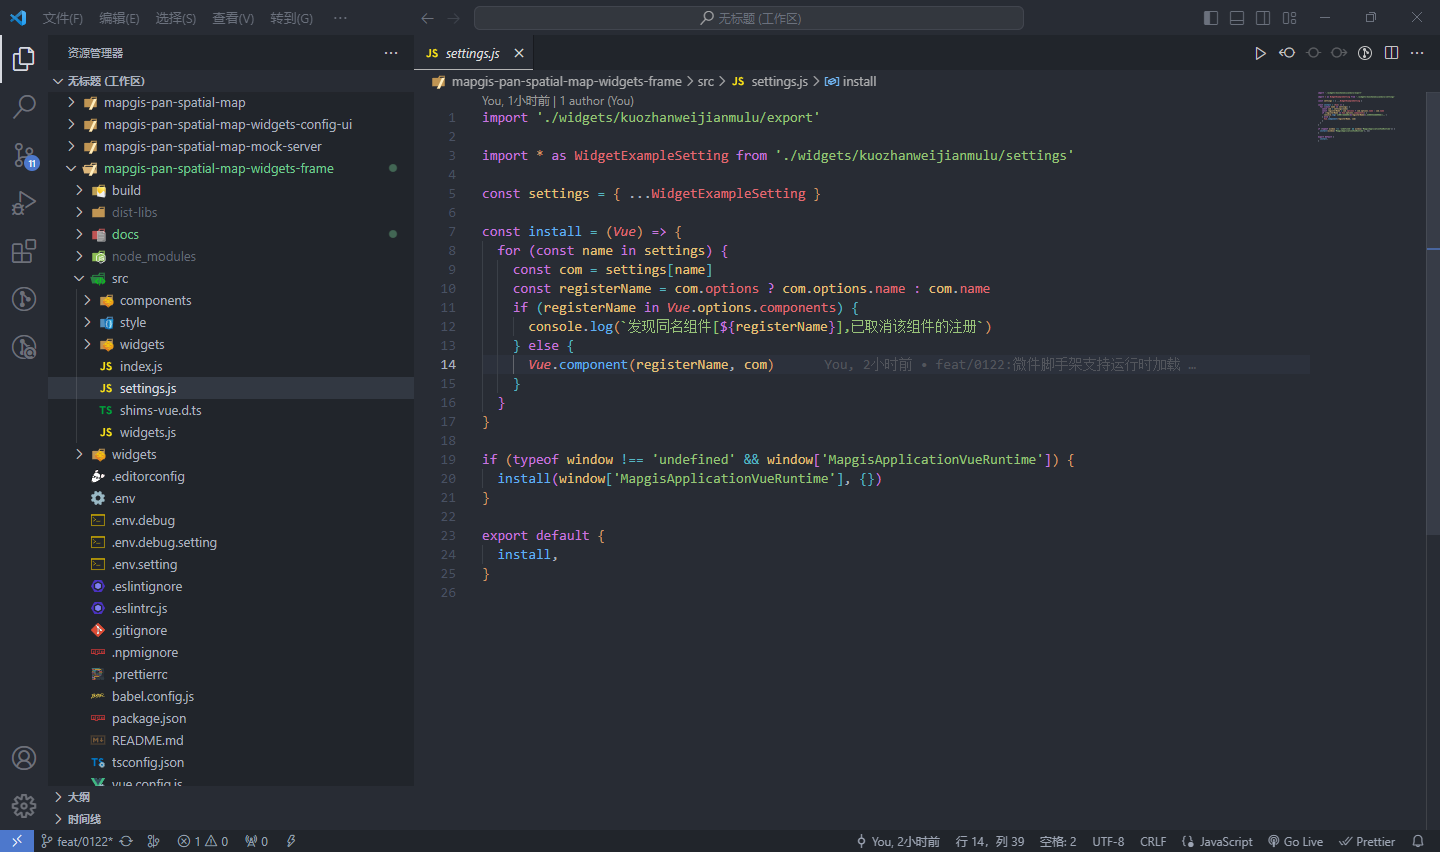
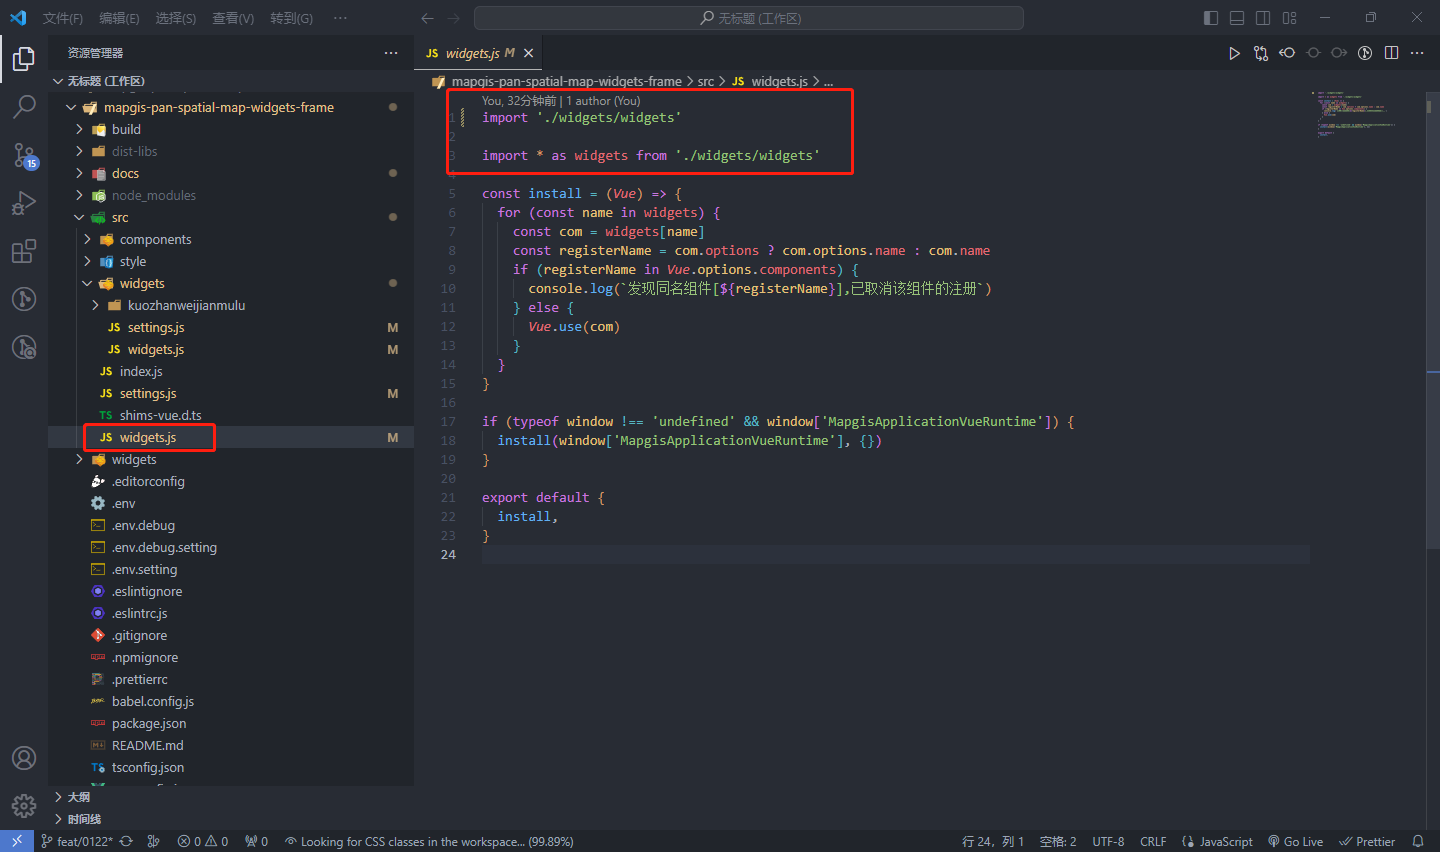
feat/0122:微件包脚手架支持运行时加载 详细描述:更新微件扩展指南.md

diff --git a/src/widgets/settings.js b/src/widgets/settings.js
@@ -1,1 +1,3 @@
-export { WidgetExampleSetting } from './kuozhanweijianmulu/settings'
+import { WidgetExampleSetting } from './kuozhanweijianmulu/settings'
+
+export { WidgetExampleSetting }

diff --git a/src/widgets/widgets.js b/src/widgets/widgets.js
@@ -1,1 +1,3 @@
-export { MpWidgetExample } from './kuozhanweijianmulu/widgets'
+import { MpWidgetExample } from './kuozhanweijianmulu/widgets'
+
+export { MpWidgetExample }

diff --git a/src/settings.js b/src/settings.js
@@ -1,4 +1,4 @@
-import './widgets/kuozhanweijianmulu/export'
+import './widgets/settings'
 
 import * as settings from './widgets/settings'
 

diff --git a/src/widgets.js b/src/widgets.js
@@ -1,4 +1,4 @@
-import './widgets/kuozhanweijianmulu/export'
+import './widgets/widgets'
 
 import * as widgets from './widgets/widgets'
 

diff --git a/docs/微件扩展指南.md b/docs/微件扩展指南.md
@@ -217,23 +217,31 @@ export default {
 
 ```
 
-5.在 src/widgets/kuozhanweijianmulu下新建widgets.js、setting.js、export.js
+5.在 src/widgets/kuozhanweijianmulu下新建widgets.js、settings.js
 
-widgets.js : 导出当前目录下所有微件
+widgets.js : 导出**当前目录**下所有微件
 
-settings.js : 导出当前目录下所有的配置UI
-
-export.js : 按需导出文件
+settings.js : 导出**当前目录**下所有的配置UI
 
 ![](./images/widgets4.png)
 
-6.在src/widgets文件中执行操作：①导入按需导出的文件  ②导入微件并注册
+6.在src/widgets文件夹下新建widgets.js、settings.js
+
+widgets.js : 导出**所有**的微件
+
+settings.js : 导出**所有**的配置UI
 
 ![](./images/widgets5.png)
 
-在src/settings.js文件中执行操作: ①导入按需导出的文件  ②导入配置UI并注册
+![](./images/widgets8.png)
+
+7.在src/widgets.js文件中导入微件并注册
 
 ![](./images/widgets6.png)
+
+在src/settings.js文件中导入配置UI并注册
+
+![](./images/widgets9.png)
 
 ## 微件配置
 
@@ -320,7 +328,7 @@ inPanel 为 false 示例
 
 ### 在全空间一张图中配置主题和微件
 
-全空间一张图后台系统提供微件和主题导入的功能（**应用管理/主题管理、应用管理/微件管理**），将符合微件或主题规范的预开发的微件或主题配置包导入到系统中，就可以利用全空间一张图的可视化配置功能（**应用管理/应用搭建**），使用该主题或微件，这些都可以在实际编码之前完成，即先做好设计再开发，不需要像在模拟服务器中需要自己手动处理主题与微件包的格式为`zip`,zip 内为主题或微件的名称，支持 zip 包内包含 1 个或多个主题或微件微件配置包规则。
+全空间一张图后台系统提供微件和主题导入的功能（**应用管理/主题管理、应用管理/微件管理**），将符合微件或主题规范的预开发的微件或主题配置包（xxx.zip）导入到系统中，就可以利用全空间一张图的可视化配置功能（**应用管理/应用搭建**），使用该主题或微件。主题与微件包的格式为`zip`,zip 内为主题或微件的名称，支持 zip 包内包含 1 个或多个主题或微件微件配置包规则。
 
 ```
 # 以下为主题zip包的内容
@@ -352,7 +360,7 @@ inPanel 为 false 示例
 
 ## 运行程序
 
-方式一：源码yarn link方式，特别注意此时必须将mapgis-pan-spatial-map-widgets-frame包当中package.json的软件包入口点改成src/index.js,即采用module的引入方式
+方式一：源码yarn link方式(适用于开发时实时观察编码效果)，特别注意此时必须将mapgis-pan-spatial-map-widgets-frame包当中package.json的软件包入口点改成src/index.js,即采用module的引入方式
 
 ![](./images/widgets7.png)
 
